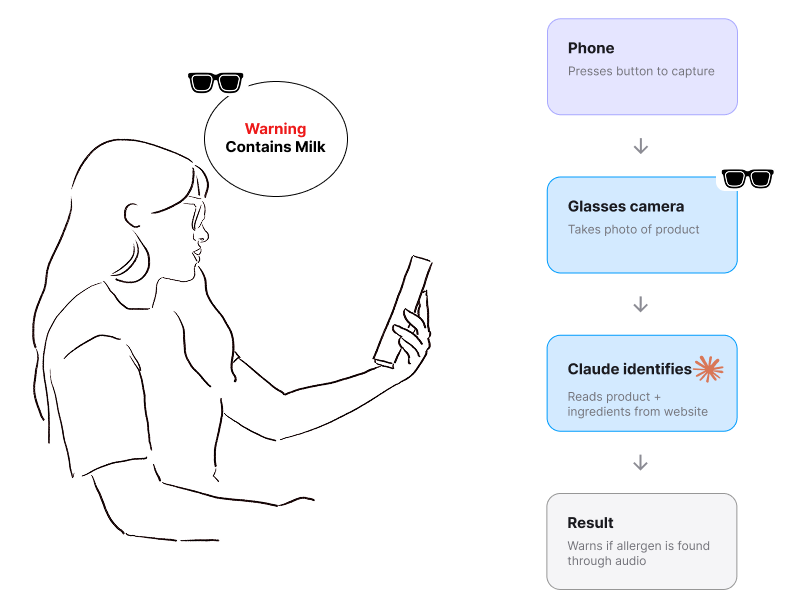
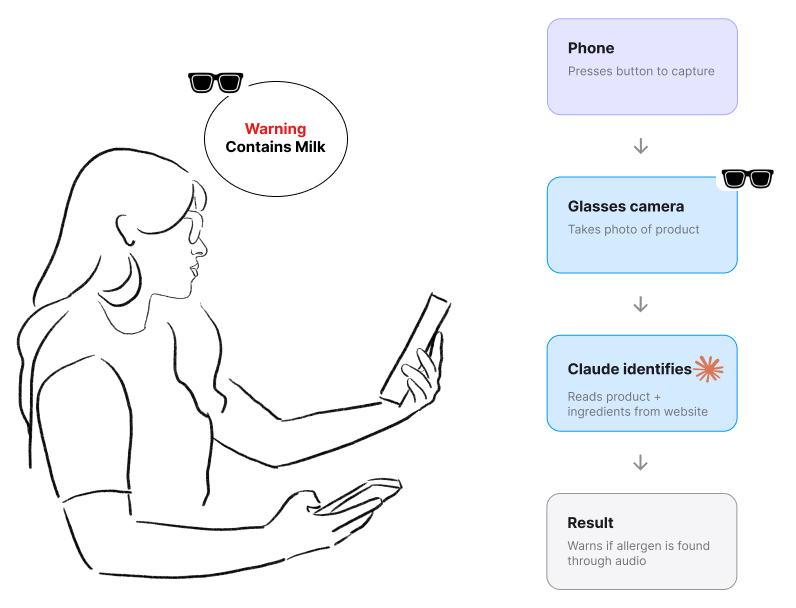
Collapse experience content, not just the sidenav, until clicked
Clicking 'Phone Experience' / 'Smart Glasses Experience' in the sidenav
now also shows/hides their actual Research/Ideation/Final Designs/
Outcomes sections in the page body (previously only the sub-nav-links
collapsed; content was always visible). Both start collapsed.

Reworked the scrollspy's section list to check visibility live on every
scroll tick instead of once at page-open, since a section can now go
from hidden to visible without a full re-render. Added resets so a
collapsed Research/Final Designs from viewing FoodLens can't leak into
Co-op Watch or Mentorship Platform's view (verified both stay unaffected).

Claude-Session: https://claude.ai/code/session_01LuSoDMzCnjxERcvJJePQG7

diff --git a/main.js b/main.js
@@ -845,10 +845,15 @@ function openCase(i, push = true) {
   const csBody = cs.querySelector('.cs-body');
   const solutionSection = document.getElementById('cs-solution');
   const reflectionSection = document.getElementById('cs-reflection');
+  const researchSectionEl = document.getElementById('cs-research');
   const sidenav = cs.querySelector('.cs-sidenav');
-  // Reset in case a previous case (FoodLens) hid these when its Outcomes
-  // moved under Phone Experience; re-shown here, re-hidden below if needed.
+  // Reset in case a previous case (FoodLens) hid these — either because its
+  // Outcomes moved under Phone Experience, or because Phone Experience's
+  // collapsible group hid its own Research/Ideation/Final Designs content.
+  // Re-shown here, re-hidden below if this case needs it.
   reflectionSection.style.display = '';
+  solutionSection.style.display = '';
+  if (researchSectionEl) researchSectionEl.style.display = '';
   const reflectionNavStatic = sidenav.querySelector('.cs-nav-link[data-target="cs-reflection"]');
   if (reflectionNavStatic) reflectionNavStatic.style.display = '';
 
@@ -1244,14 +1249,21 @@ function openCase(i, push = true) {
   cs.addEventListener('scroll', cs._progressHandler);
 
   setTimeout(() => {
-    const sectionIds = ['cs-top-video','cs-intro','cs-problem','cs-phone-experience','cs-research','cs-ideation','cs-usability','cs-solution','cs-phone-outcomes','cs-glasses-experience','cs-glasses-research','cs-glasses-ideation','cs-glasses-final','cs-glasses-outcomes','cs-refinement','cs-reflection'].filter(id => {
-      const el = document.getElementById(id);
+    // Not pre-filtered: sections collapsed under an experience group start
+    // hidden and become visible later (on click), so "is this visible"
+    // has to be checked live in the scrollspy below, not just once here.
+    const allSectionIds = ['cs-top-video','cs-intro','cs-problem','cs-phone-experience','cs-research','cs-ideation','cs-usability','cs-solution','cs-phone-outcomes','cs-glasses-experience','cs-glasses-research','cs-glasses-ideation','cs-glasses-final','cs-glasses-outcomes','cs-refinement','cs-reflection'];
+    function visibleSectionIds() {
       // Excludes display:none sections (e.g. the shared Outcomes section
-      // when FoodLens moves its content under Phone Experience) — a hidden
-      // element's rect is all zeros, which would otherwise always look
-      // "above" the real scroll position and hijack the scrollspy.
-      return !!el && el.offsetParent !== null;
-    });
+      // when FoodLens moves its content under Phone Experience, or a
+      // collapsed experience group's content) — a hidden element's rect is
+      // all zeros, which would otherwise always look "above" the real
+      // scroll position and hijack the scrollspy.
+      return allSectionIds.filter(id => {
+        const el = document.getElementById(id);
+        return !!el && el.offsetParent !== null;
+      });
+    }
     const secObs = new IntersectionObserver(entries => {
       entries.forEach(e => { if (e.isIntersecting) e.target.classList.add('cs-visible'); });
     }, { root: cs, threshold: 0 });
@@ -1266,13 +1278,16 @@ function openCase(i, push = true) {
     clearTimeout(cs._navScrollTimer);
 
     // Collapsible experience groups: "Phone Experience" / "Smart Glasses
-    // Experience" start collapsed, hiding their Research/Ideation/etc.
-    // sub-links until the group header is clicked (or scrolled into).
+    // Experience" start collapsed, hiding both their Research/Ideation/etc.
+    // sub-links AND the matching content sections in the page itself, until
+    // the group header is clicked (or scrolled into, for a sub-link).
     function setGroupExpanded(header, expanded) {
       header.setAttribute('aria-expanded', expanded ? 'true' : 'false');
       let sib = header.nextElementSibling;
       while (sib && sib.classList.contains('cs-nav-sub')) {
         sib.classList.toggle('cs-nav-collapsed', !expanded);
+        const content = document.getElementById(sib.getAttribute('data-target'));
+        if (content) content.style.display = expanded ? '' : 'none';
         sib = sib.nextElementSibling;
       }
     }
@@ -1319,6 +1334,7 @@ function openCase(i, push = true) {
     }
     cs._scrollSpy = () => {
       if (cs._navScrolling) return;
+      const sectionIds = visibleSectionIds();
       // If near the bottom of the page, always highlight the last section
       if (cs.scrollTop + cs.clientHeight >= cs.scrollHeight - 80) {
         activateNav(sectionIds[sectionIds.length - 1]);

diff --git a/index.html b/index.html
@@ -7,7 +7,7 @@
 <title>Nicole Fajardo</title>
 <meta name="color-scheme" content="light">
 <link href="https://fonts.googleapis.com/css2?family=Nunito:wght@400;600;700;800&family=Lato:ital,wght@0,300;0,400;0,700;1,300;1,400&display=swap" rel="stylesheet">
-<link rel="stylesheet" href="styles.css?v=20260915-1l">
+<link rel="stylesheet" href="styles.css?v=20260915-1m">
 </head>
 <body>
 <div class="cs-lightbox" id="cs-lightbox" onclick="closeLightbox()">
@@ -223,6 +223,6 @@
   </div><!-- /cs-wrap -->
 </div><!-- /case-study -->
 <button onclick="window.scrollTo({top:0,behavior:'smooth'})" id="back-to-top">↑</button>
-<script src="main.js?v=20260915-1l"></script>
+<script src="main.js?v=20260915-1m"></script>
 </body>
 </html>
